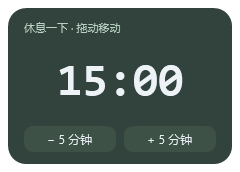
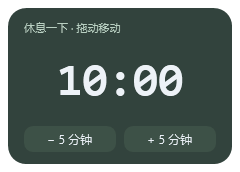
Default rest countdown to ten minutes

Changed region(s): [[0.3208, 0.3779, 0.4667, 0.5814]]

diff --git a/SelfTest.cs b/SelfTest.cs
@@ -58,14 +58,14 @@ internal static class SelfTest
             var restSettings = new SettingsService(Path.Combine(directory, "rest"));
             var rest = new RestViewModel(restSettings, () => clock);
             int finished = 0; rest.Finished += () => finished++;
-            rest.Start(); Check(rest.RemainingText == "15:00", "rest starts at fifteen minutes");
-            rest.Adjust(5); Check(rest.RemainingText == "20:00", "add five minutes");
-            rest.Adjust(-5); Check(rest.RemainingText == "15:00", "subtract five minutes");
+            rest.Start(); Check(rest.RemainingText == "10:00", "rest starts at ten minutes");
+            rest.Adjust(5); Check(rest.RemainingText == "15:00", "add five minutes");
+            rest.Adjust(-5); Check(rest.RemainingText == "10:00", "subtract five minutes");
             clock = clock.AddMinutes(2); rest.Tick();
-            Check(rest.RemainingText == "13:00", "elapsed wall clock");
-            rest.Start(); Check(rest.RemainingText == "13:00", "active rest is not reset");
+            Check(rest.RemainingText == "08:00", "elapsed wall clock");
+            rest.Start(); Check(rest.RemainingText == "08:00", "active rest is not reset");
             var loadedRest = new SettingsService(Path.Combine(directory, "rest")); loadedRest.Load();
-            Check(new RestViewModel(loadedRest, () => clock).RemainingText == "13:00", "rest restored after restart");
+            Check(new RestViewModel(loadedRest, () => clock).RemainingText == "08:00", "rest restored after restart");
             clock = clock.AddMinutes(20); rest.Tick(); rest.Tick();
             Check(!rest.IsResting && finished == 1 && restSettings.Value.RestEndsAtUtc == null, "sleep expiry notifies once");
             rest.Start(); rest.Adjust(-5); rest.Adjust(-5); rest.Adjust(-5);
@@ -103,9 +103,9 @@ internal static class SelfTest
             var restWindow = new RestWindow(model.Rest, settings); restWindow.Sync(true, 210, 180);
             typeof(MainWindow).GetMethod("Expand", BindingFlags.Instance | BindingFlags.NonPublic)!.Invoke(window, null);
             ((Button)restWindow.FindName("RestPlusButton")).RaiseEvent(new RoutedEventArgs(Button.ClickEvent));
-            Check(model.Rest.Remaining.TotalMinutes > 19, "rest plus button");
+            Check(model.Rest.Remaining.TotalMinutes > 14, "rest plus button");
             ((Button)restWindow.FindName("RestMinusButton")).RaiseEvent(new RoutedEventArgs(Button.ClickEvent));
-            Check(model.Rest.Remaining.TotalMinutes <= 15 && model.Rest.Remaining.TotalMinutes > 14, "rest minus button");
+            Check(model.Rest.Remaining.TotalMinutes <= 10 && model.Rest.Remaining.TotalMinutes > 9, "rest minus button");
             Snapshot(restWindow, resultPath + ".rest.png");
             Check(restWindow.IsVisible && restWindow.ShowActivated == false, "independent non-activating rest window");
             restWindow.DisposeWindow();

diff --git a/ViewModels/RestViewModel.cs b/ViewModels/RestViewModel.cs
@@ -27,7 +27,7 @@ public sealed class RestViewModel : INotifyPropertyChanged
     {
         // Further reminders during an active break do not reset the user's timer.
         if (IsResting) return;
-        settings.Value.RestEndsAtUtc = now().AddMinutes(15);
+        settings.Value.RestEndsAtUtc = now().AddMinutes(10);
         Persist(); Changed();
     }
     public void Adjust(int minutes)

diff --git a/RELEASE_NOTES.md b/RELEASE_NOTES.md
@@ -1,11 +1,11 @@
-# DoneBubble v0.1.0
+# DoneBubble v0.1.1
 
 首个 Windows x64 版本，记录“今天已经处理了多少事”。
 
 - 常驻置顶气泡，拖动定位；点击「轻 / 中 / 重」即可记录，备注可选。
 - 轻 / 中 / 重分别计 1 / 2 / 3 分；本地 SQLite 保存，今日历史支持删除。
 - 低饱和度气泡颜色随每 5 分循环，并体现全天累计负载。
-- 每满 5 分提醒休息，独立大字浮层倒计时 15 分钟，支持每次加减 5 分钟。
+- 每满 5 分提醒休息，独立大字浮层倒计时 10 分钟，支持每次加减 5 分钟。
 - 系统托盘、可选开机启动、位置及倒计时恢复。
 - 不联网、不登录、无遥测。
 
